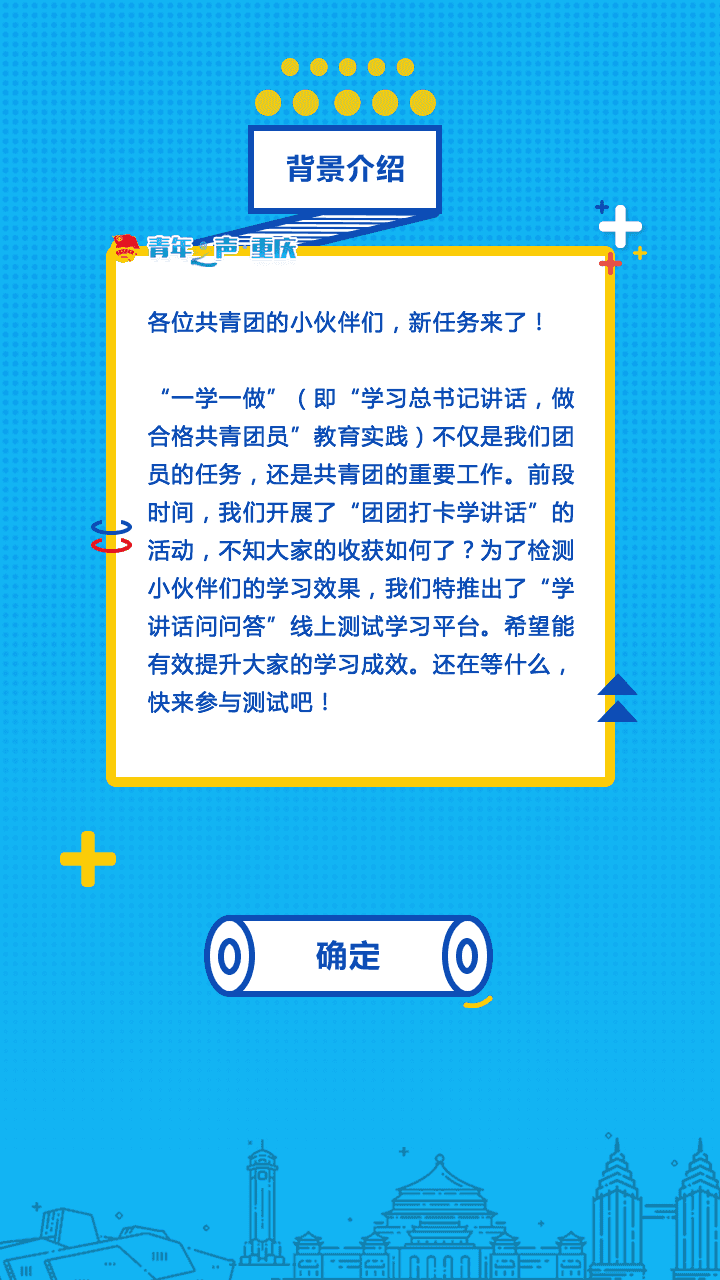
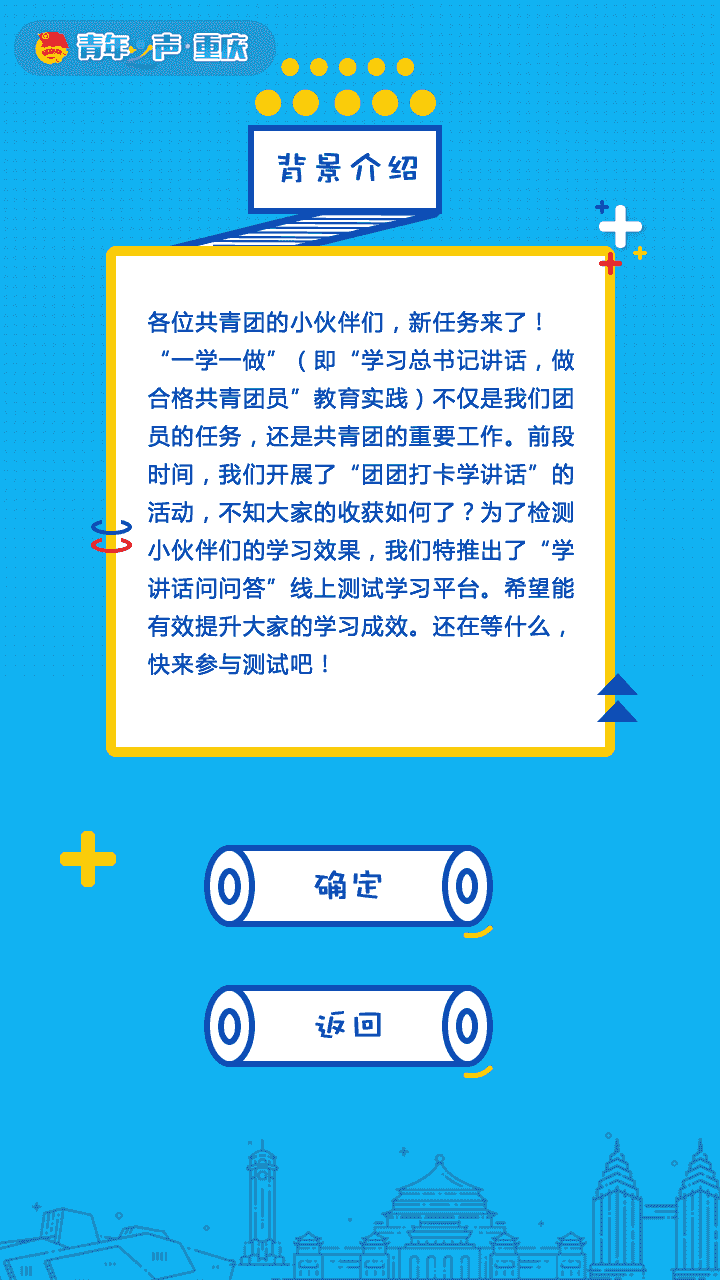
做了一些修改

diff --git a/Application/Home/View/Index/intro.html b/Application/Home/View/Index/intro.html
@@ -27,11 +27,19 @@
             left: 28%;
             width: 40.5%;
             height: 7.5%;
-            bottom: 21.1%;
+            bottom: 26.5%;
             position: absolute;
         }
 
-        .start-game a {
+        .return-index {
+            left: 28%;
+            width: 40.5%;
+            height: 7.5%;
+            bottom: 15.5%;
+            position: absolute;
+        }
+
+        a {
             width: 100%;
             height: 100%;
             display: block;
@@ -42,6 +50,9 @@
     <body>
         <div class="start-game">
             <a href="{:U('Index/Ques')}"></a>
+        </div>
+         <div class="return-index">
+            <a href="{:U('Index/Index')}"></a>
         </div>
     </body>
 </html>
